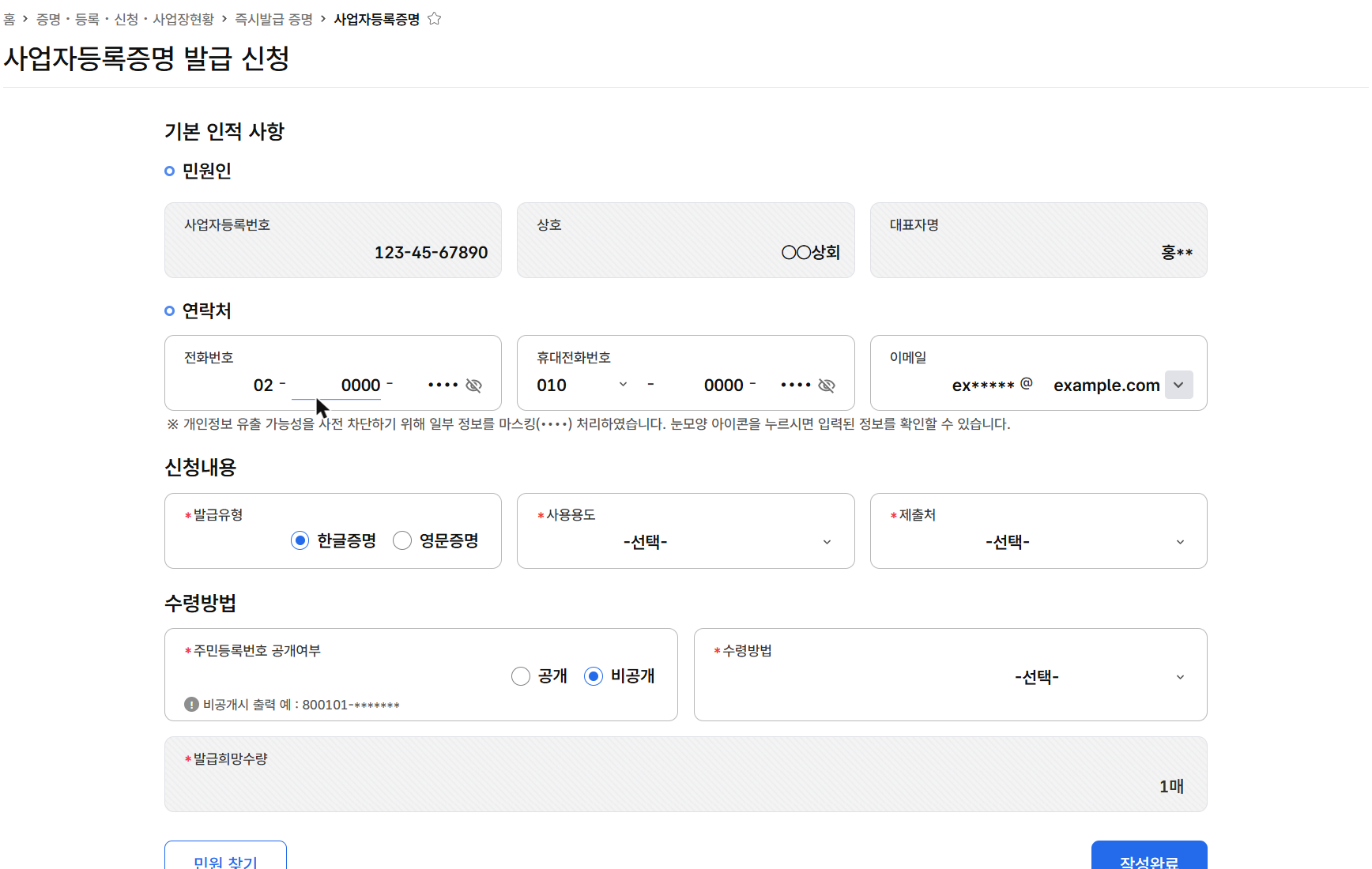
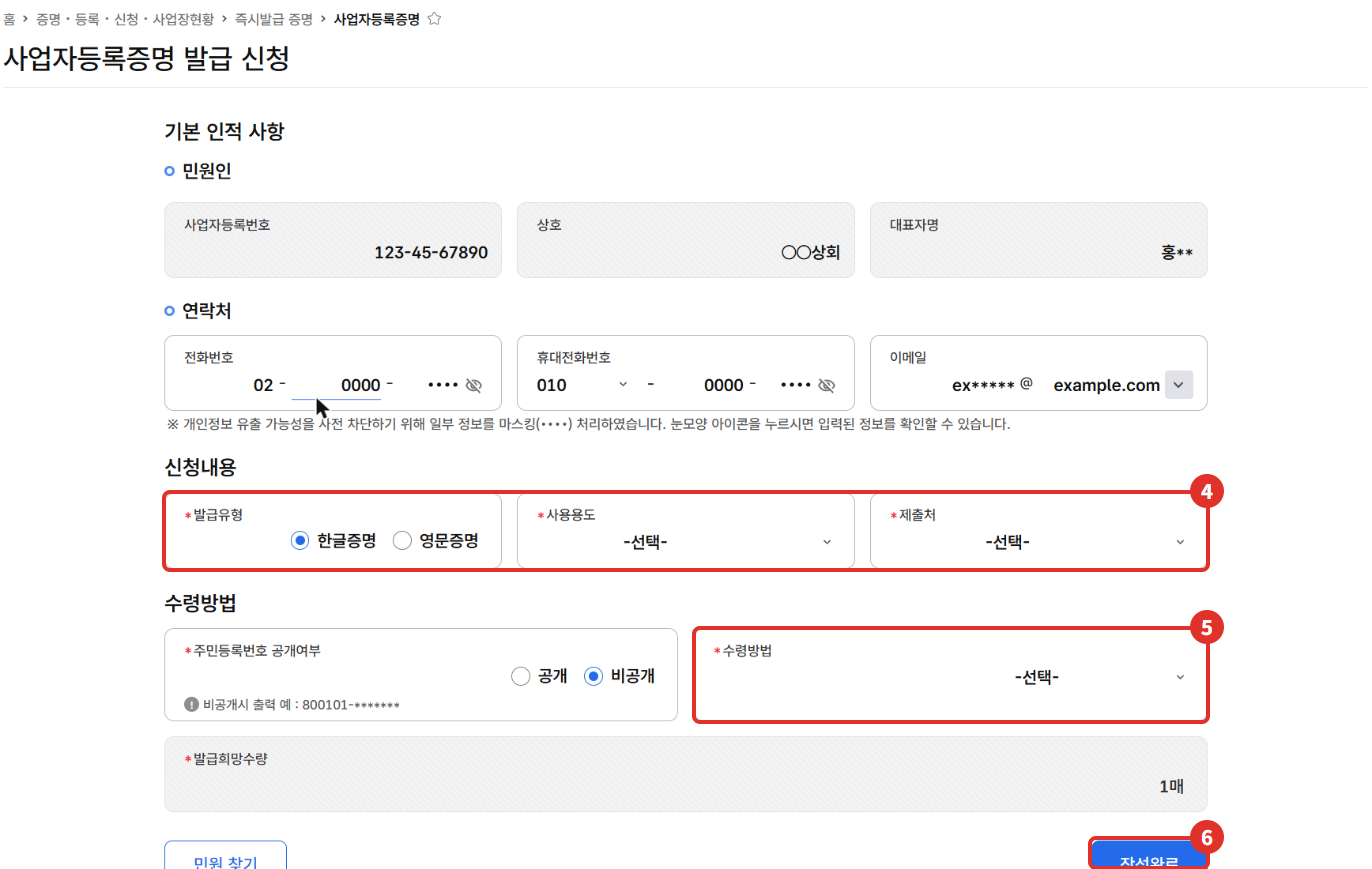
사업자등록증명 글 캡처에 빨간 순서 표시

diff --git a/_posts/2026-11-07-hometax-business-registration-certificate.md b/_posts/2026-11-07-hometax-business-registration-certificate.md
@@ -45,24 +45,24 @@ screen_checked: 2026-11
 > 📅 **2026년 11월 기준 화면**이에요(운영자 본인 사업자 계정). 메뉴 이름은 바뀔 수 있어요.
 
 1. 홈택스에 로그인해요. 운영자는 **사업자로 로그인**해서 신청했어요.
-2. **전체메뉴 > 증명·등록·신청·사업장현황 > 민원증명 > 즉시발급 증명 +**를 눌러 펼치고 **사업자등록증명**을 눌러요.
+2. **전체메뉴**에서 ① **증명·등록·신청·사업장현황** → 민원증명의 ② **즉시발급 증명 +**를 눌러 펼치고 ③ **사업자등록증명**을 눌러요.
 
    ![홈택스 전체메뉴의 증명·등록·신청·사업장현황에서 즉시발급 증명을 펼친 목록과 사업자등록증명 위치](/assets/images/posts/hometax-business-registration-certificate/01-allmenu.png)
 
 3. **사업자등록증명 발급 신청** 화면이 열려요. 민원인 정보(사업자등록번호·상호·대표자명)와 연락처는 미리 채워져 있어요.
-4. **신청내용**과 **수령방법**을 골라요(아래 표).
+4. ④ **신청내용**과 ⑤ **수령방법**을 골라요(아래 표).
 
    ![사업자등록증명 발급 신청 화면: 민원인 정보, 연락처, 발급유형·사용용도·제출처, 주민등록번호 공개여부, 수령방법, 발급희망수량, 작성완료 버튼 (정보는 가상값)](/assets/images/posts/hometax-business-registration-certificate/02-form.png)
 
-5. **작성완료**를 누르면 확인 창이 떠요. 신청한 뒤에는 정보를 고치거나 신청을 취소할 수 없다고 안내되니, 한 번 더 보고 **신청하기**를 눌러요.
+5. ⑥ **작성완료**를 누르면 확인 창이 떠요. 신청한 뒤에는 정보를 고치거나 신청을 취소할 수 없다고 안내되니, 한 번 더 보고 ⑦ **신청하기**를 눌러요.
 
    ![사업자등록증명 작성이 완료되었어요, 신청하시겠습니까? 확인 창과 취소·신청하기 버튼](/assets/images/posts/hometax-business-registration-certificate/03-confirm.png)
 
-6. "정상적으로 접수되었습니다" 알림 뒤에 **신청이 완료되었습니다** 화면이 나와요. **민원처리결과 조회**를 눌러요.
+6. "정상적으로 접수되었습니다" 알림 뒤에 **신청이 완료되었습니다** 화면이 나와요. ⑧ **민원처리결과 조회**를 눌러요.
 
    ![사업자등록증명 신청 완료 화면: 신청인, 민원증명, 신청정보(한글증명·기타)와 민원처리결과 조회 버튼 (신청인 정보는 가림)](/assets/images/posts/hometax-business-registration-certificate/04-done.png)
 
-7. 처리결과 목록에 **처리완료**로 나오면 오른쪽 **열람** 버튼을 눌러 증명서를 열어요(운영자는 인터넷열람으로 신청했어요. 인터넷발급으로 신청하면 버튼 이름이 다를 수 있어요). 증명서는 **새 창**으로 떠요.
+7. 처리결과 목록에 ⑨ **처리완료**로 나오면 오른쪽 **열람** 버튼을 눌러 증명서를 열어요(운영자는 인터넷열람으로 신청했어요. 인터넷발급으로 신청하면 버튼 이름이 다를 수 있어요). 증명서는 **새 창**으로 떠요.
 
    ![민원신청 처리결과 조회: 사업자등록증명 처리완료와 열람 버튼 (접수번호·발급번호·IP는 가림)](/assets/images/posts/hometax-business-registration-certificate/05-result.png)
 
